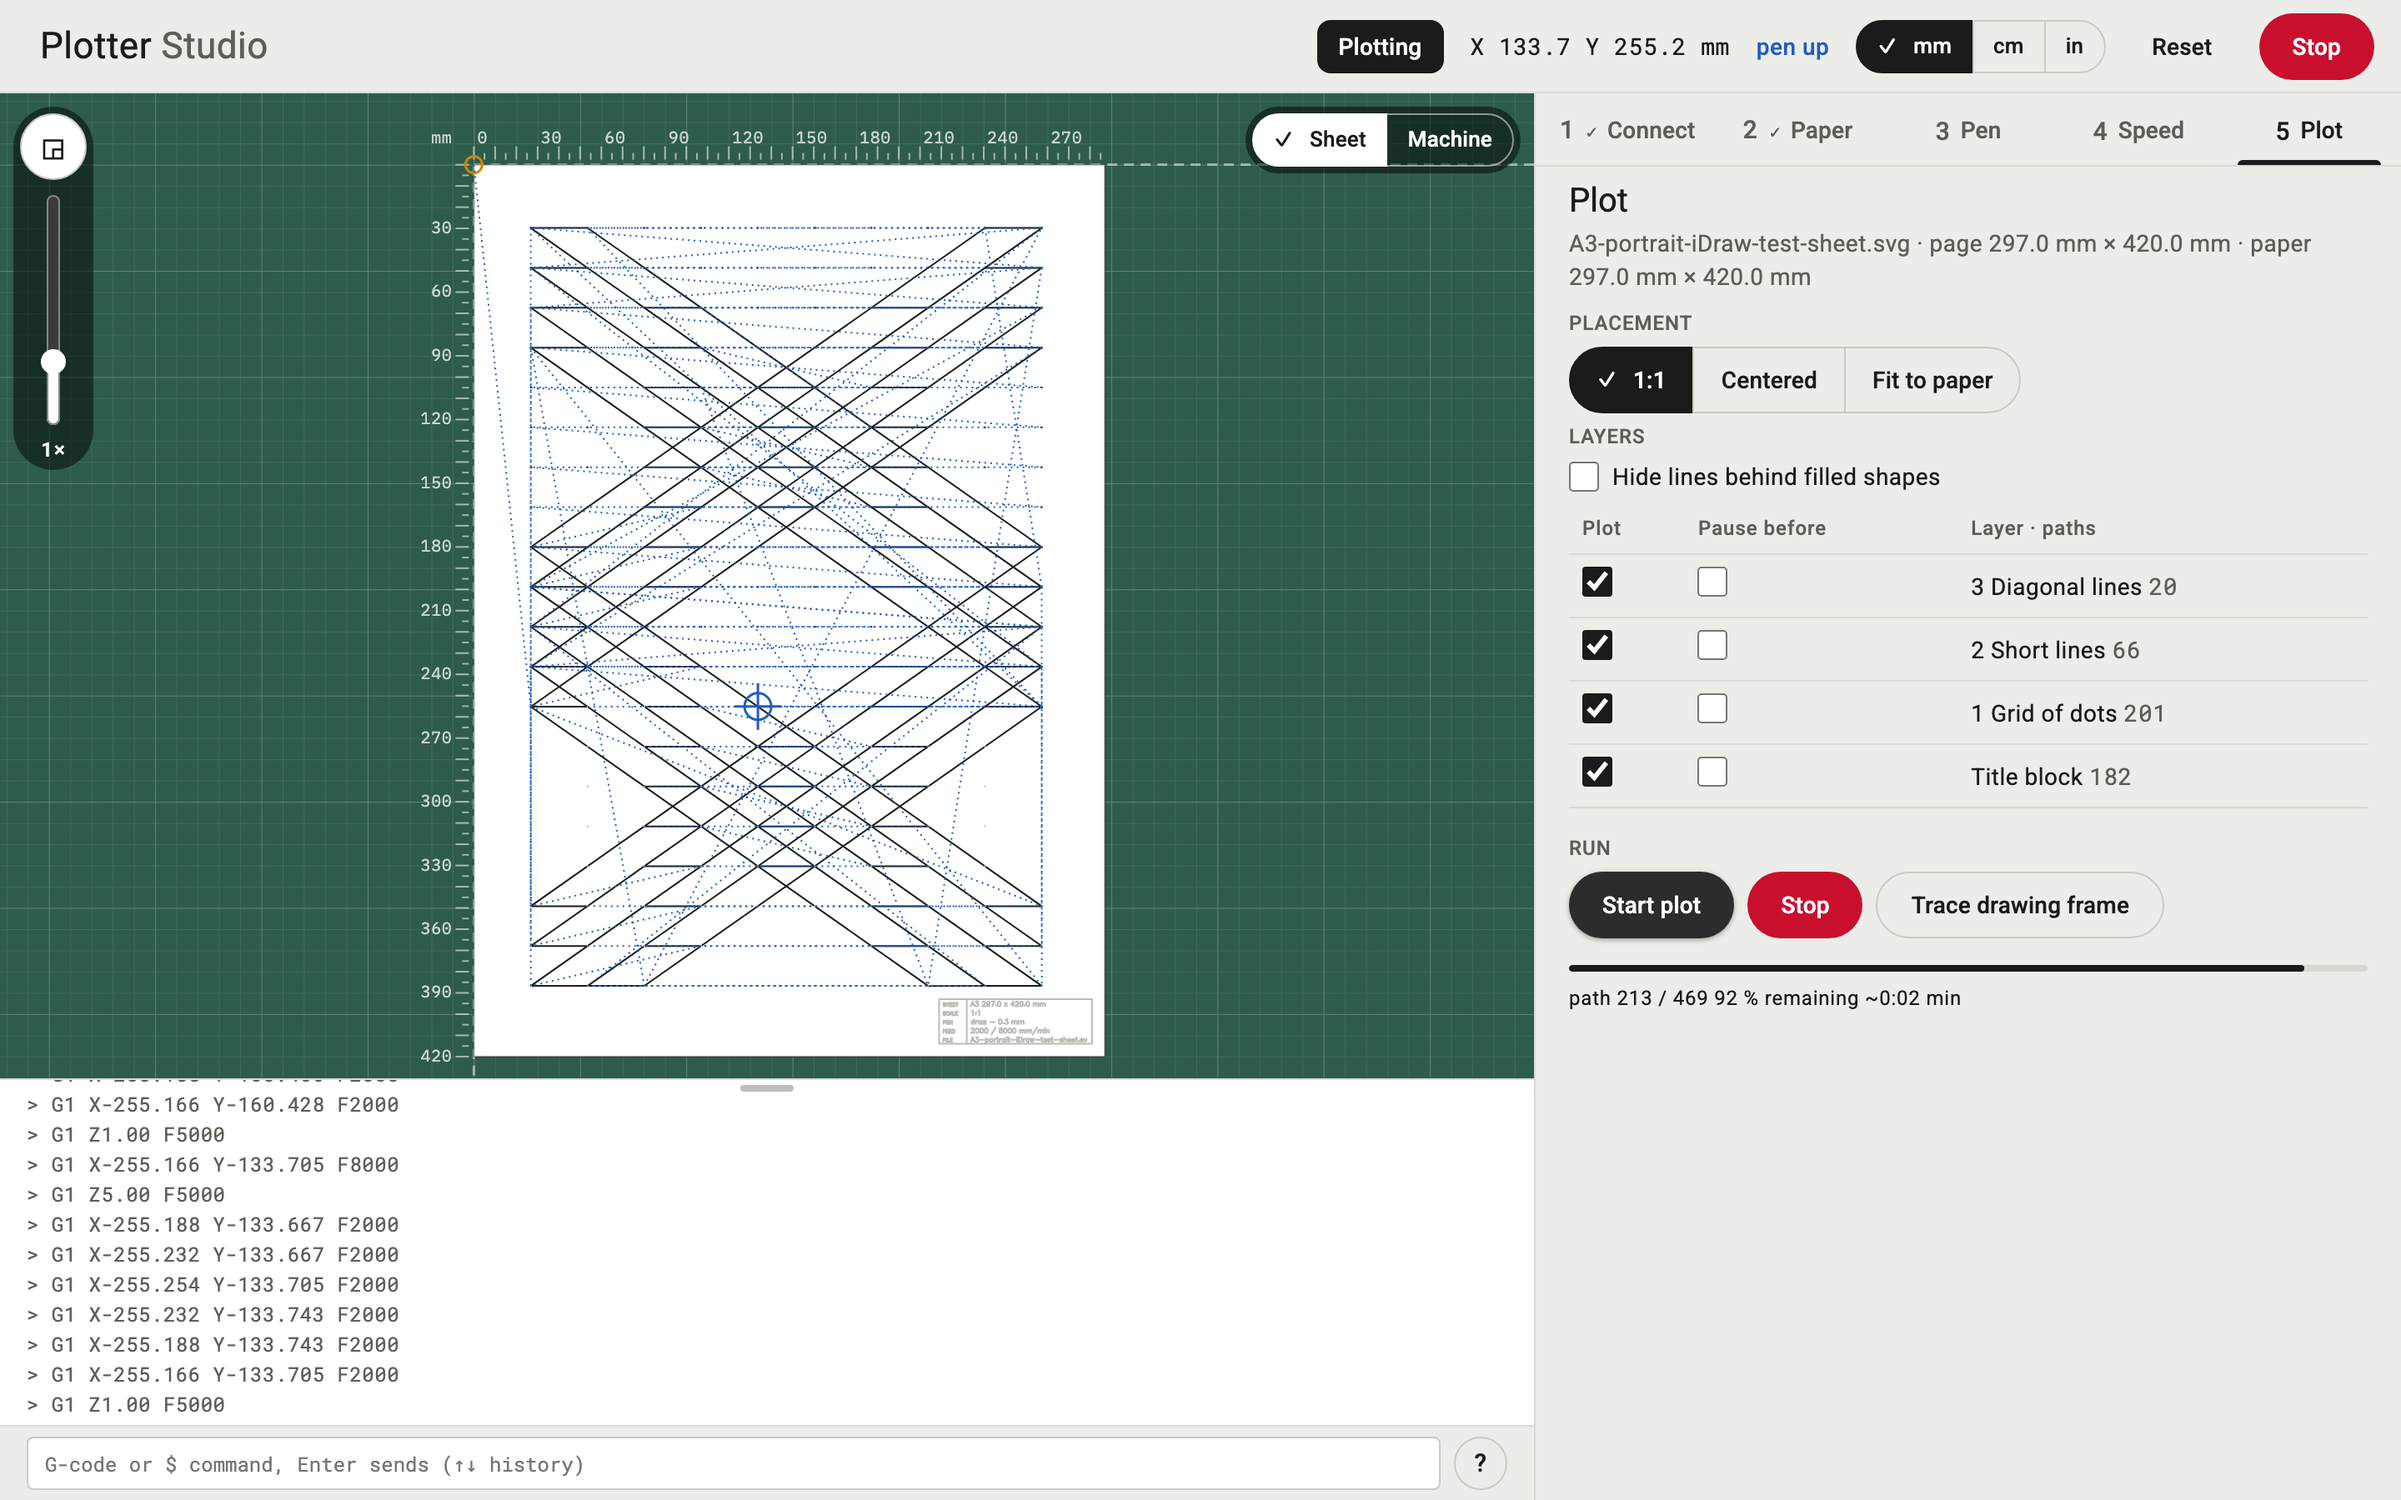
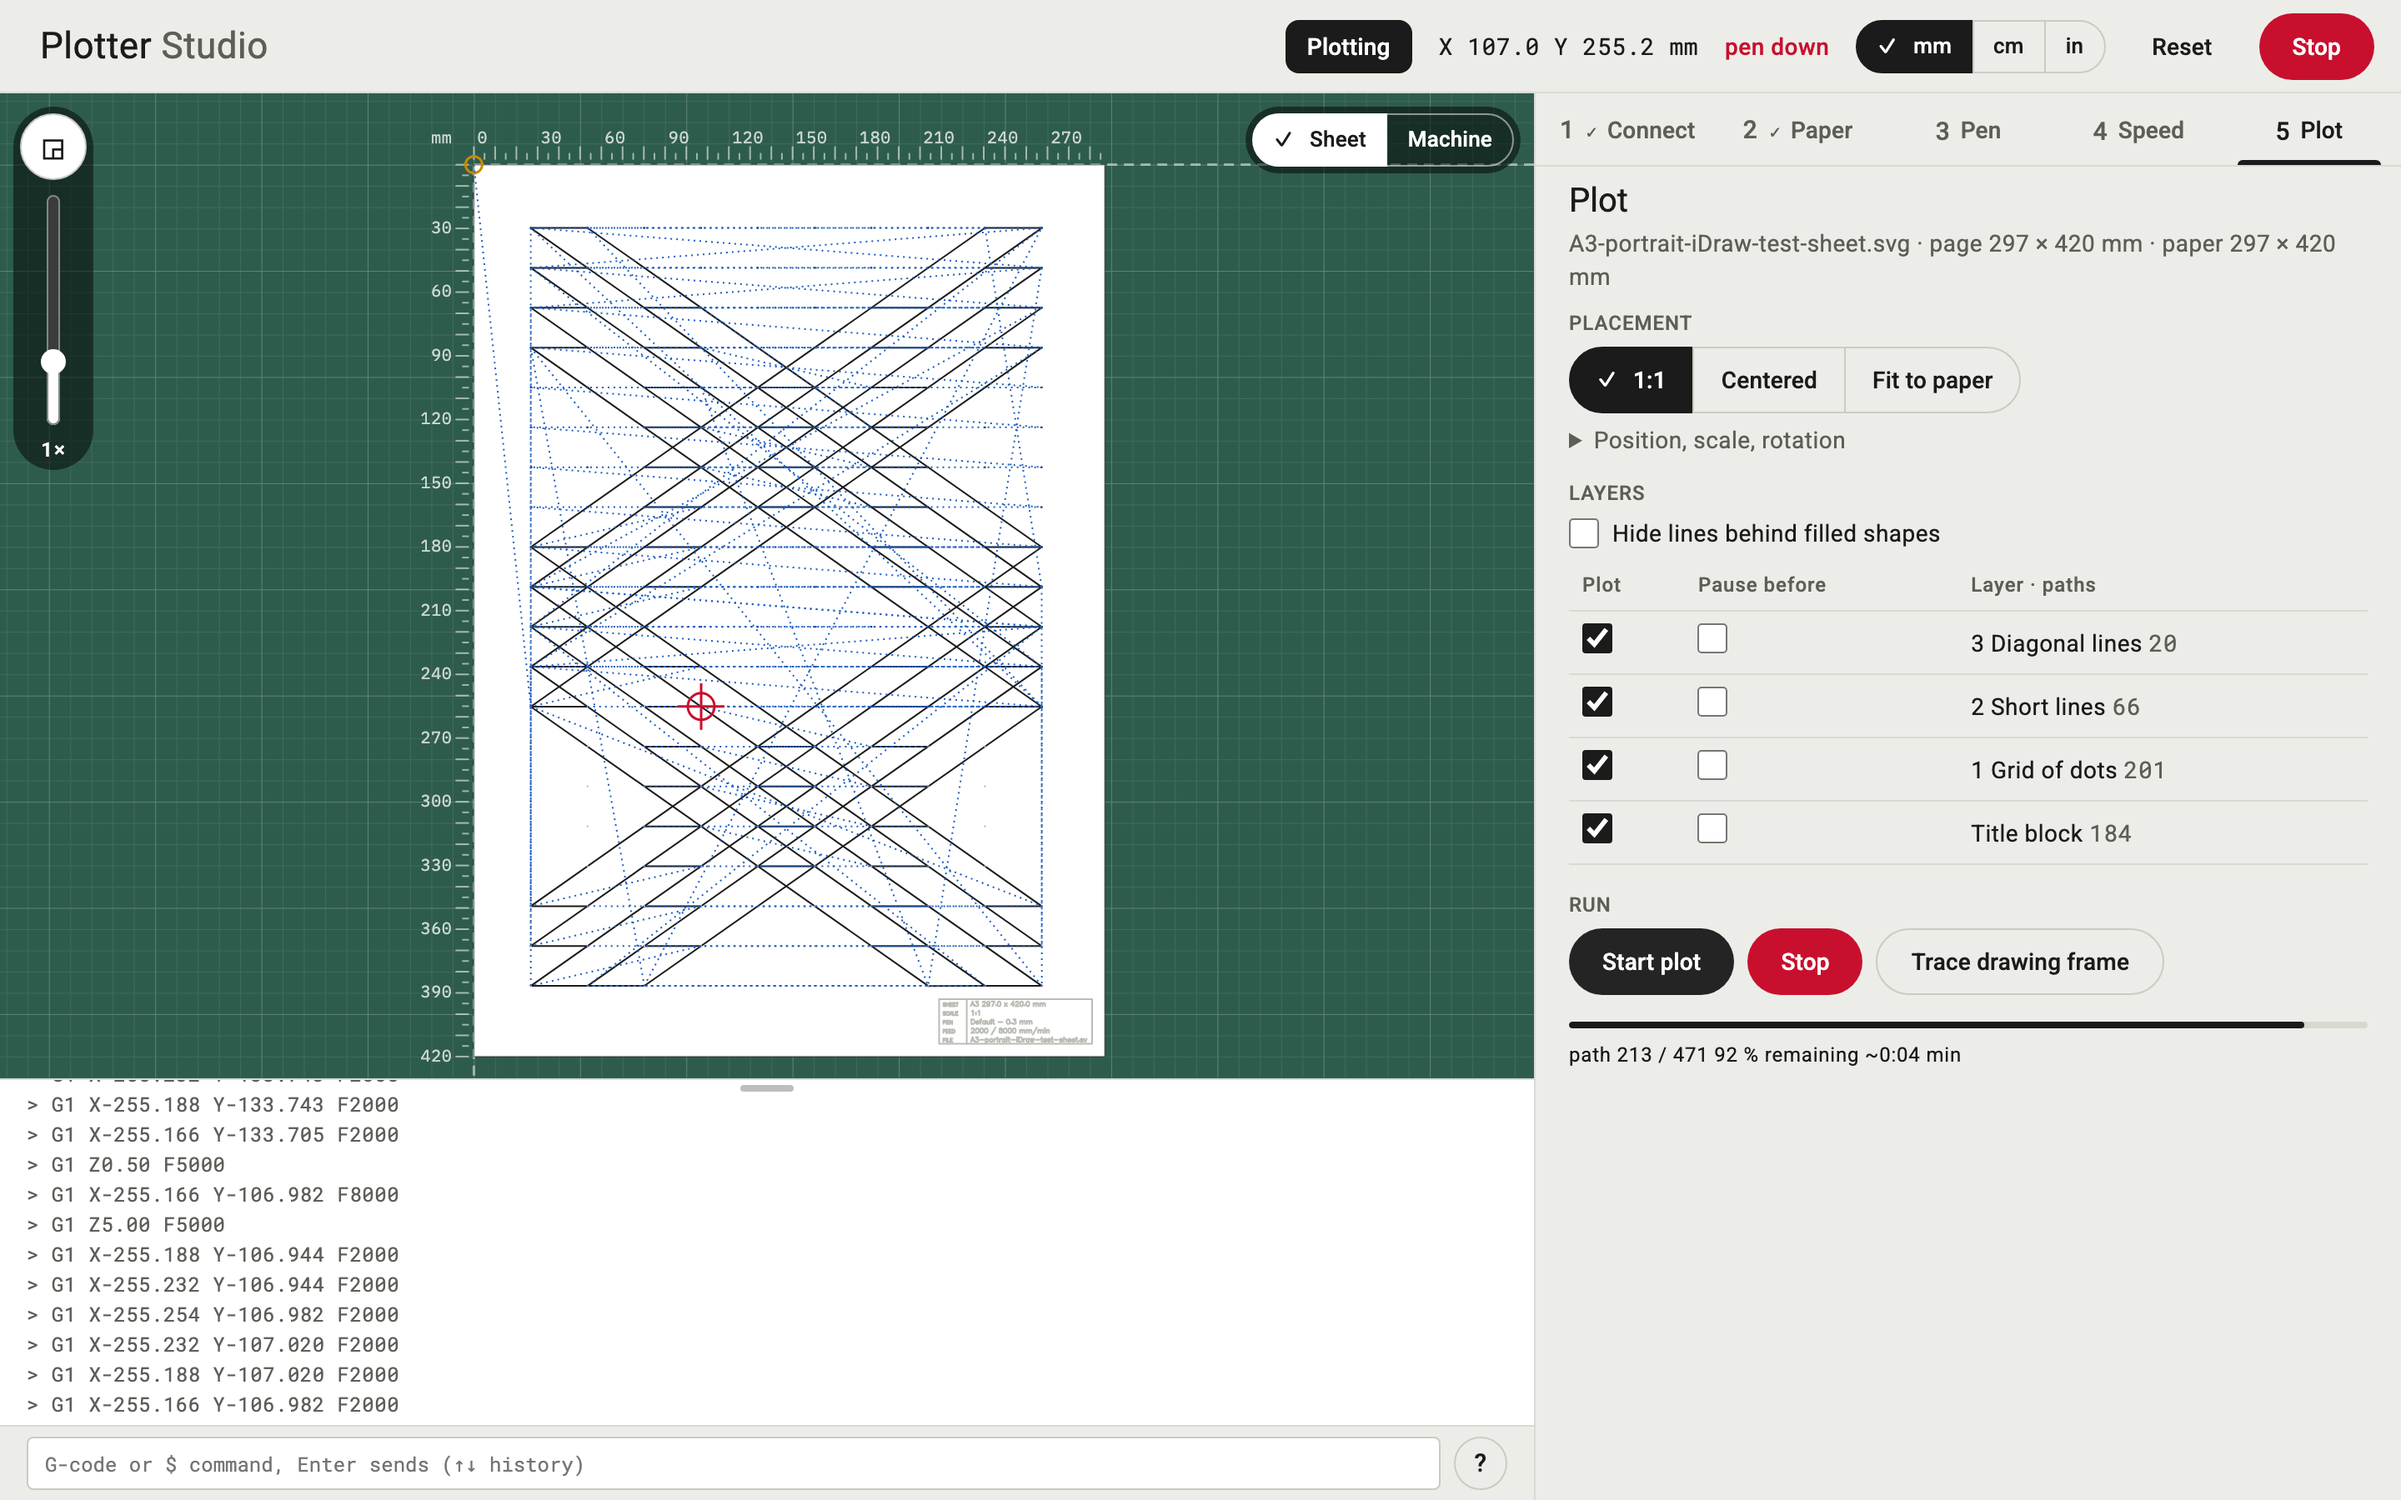
docs/make_screenshots.py: makes screenshot.png and manual-resume.png from the simulator and says what each shows; both pictures made again with the current UI

diff --git a/docs/make_screenshots.py b/docs/make_screenshots.py
@@ -1,0 +1,127 @@
+"""Make the screenshots in docs/ again after a change to the web UI: python3 docs/make_screenshots.py
+
+Needs Playwright (see TESTING.md). Runs the server with the simulator and an empty settings file,
+so the user's settings are not touched. Window 1440 x 900 at device scale 2, i.e. 2880 x 1800 px.
+
+docs/screenshot.png (README, picture above the folders):
+    The Plot step while a plot runs. Model iDraw A1 (its travel range fits an A3 sheet; with the
+    default iDraw A4 the sheet exceeds the travel and Start plot asks first), connected to the
+    simulator, homed, paper A3 portrait, test drawing A3-portrait-iDraw-test-sheet.svg from the
+    Speed step, placement 1:1. Taken at about path 213 of 471: plotted strokes black, the rest
+    grey, the dotted blue travel trace, the pen cross mid-sheet, the progress bar at about 90 %.
+
+docs/manual-resume.png (MANUAL.md, end of "Plot"):
+    The path picker after a stop. Demo drawing idraw_demo.svg, paper A4 landscape, placement 1:1,
+    pause before "!2 Detail red" switched off. The plot is stopped at about path 60, then the
+    curve (path 5) is clicked on the board: drawn thick, paths 1 to 4 done, the field shows 5,
+    the buttons read "Resume from path 5" and "Plot only".
+
+The other pictures (manual-connect, manual-paper, manual-pen, manual-steps) are cut from single
+steps of the panel and are not made by this script.
+"""
+import os
+import sys
+import tempfile
+import threading
+
+HERE = os.path.dirname(os.path.abspath(__file__))
+EXT = os.path.join(HERE, "..", "extensions")
+sys.path.insert(0, EXT)
+os.chdir(EXT)   # the server finds tests/ and the demo drawing next to itself
+
+import idraw_core
+import idraw_server
+from playwright.sync_api import expect, sync_playwright
+
+idraw_core.SimTransport.__init__.__defaults__ = (10.0,)   # fast, but slow enough to catch a running plot
+tmp = tempfile.TemporaryDirectory()
+idraw_core.SETTINGS_FILE = os.path.join(tmp.name, "settings.json")
+
+
+def select(page, selector, value):
+    """Select and wait for the server's reply, so two selects cannot finish in the wrong order."""
+    with page.expect_response(lambda r: "/api/cmd" in r.url):
+        page.select_option(selector, value)
+
+
+def start(page, model):
+    page.wait_for_selector("#steps li")
+    if page.locator("#connBtn").text_content() == "Disconnect":   # the model is locked while connected
+        page.click("#connBtn")
+        expect(page.locator("#connBtn")).to_have_text("Connect")
+    select(page, "#model", model)
+    page.select_option("#port", "Simulation")
+    page.click("#connBtn")
+    expect(page.locator("#status")).to_have_text("ready")
+    page.click("button[data-cmd=home]")
+    page.wait_for_function("() => S.state.homed && !S.state.busy")
+
+
+def tab(page, i):
+    page.locator("#steps li").nth(i).click()
+
+
+def readme(page):
+    start(page, "iDraw A1")
+    tab(page, 1)
+    select(page, "#fmt", "A3")
+    select(page, "#orient", "portrait")
+    page.wait_for_function("() => S.paper_name === 'A3' && S.paper[0] === 297 && S.paper[1] === 420")
+    tab(page, 3)
+    select(page, "#testFile", "A3-portrait-iDraw-test-sheet.svg")
+    page.wait_for_function("() => S.svg_name === 'A3-portrait-iDraw-test-sheet.svg'")
+    tab(page, 4)
+    page.click("button[data-cmd=plot]")
+    page.wait_for_function("() => S.progress && S.progress.i >= 213", timeout=120000)
+    page.mouse.move(1000, 880)
+    page.screenshot(path=os.path.join(HERE, "screenshot.png"))
+    page.click("#stop")
+    page.wait_for_function("() => S.state.status === 'ready' && !S.state.busy", timeout=30000)
+
+
+def manual_resume(page):
+    start(page, "iDraw A4")
+    tab(page, 1)
+    select(page, "#fmt", "A4")
+    select(page, "#orient", "landscape")
+    tab(page, 3)
+    select(page, "#testFile", "")
+    page.wait_for_function("() => S.svg_name === 'idraw_demo.svg'")
+    tab(page, 4)
+    page.click("button[data-pl='1:1']")
+    page.locator("#panel tr", has_text="!2 Detail red").locator("input[data-k=pause]").uncheck()
+    page.wait_for_function("() => !S.layers[1].pause")
+    page.click("button[data-cmd=plot]")
+    page.wait_for_function("() => S.progress && S.progress.i >= 60", timeout=60000)
+    page.click("#stop")
+    expect(page.locator("#log")).to_contain_text("Plot stopped.", timeout=30000)
+    page.wait_for_function("() => S.state.status === 'ready' && !S.state.busy")
+    x, y = page.evaluate("""() => { const el = document.querySelectorAll('#strokes path')[4];
+        const p = el.getPointAtLength(el.getTotalLength() * 0.3).matrixTransform(el.getScreenCTM()); return [p.x, p.y]; }""")
+    page.mouse.click(x, y)
+    expect(page.locator("#pickN")).to_have_value("5")
+    page.mouse.move(1000, 880)
+    page.wait_for_timeout(300)
+    page.screenshot(path=os.path.join(HERE, "manual-resume.png"))
+
+
+def main():
+    httpd = idraw_server.serve(os.path.join(EXT, "idraw_demo.svg"), sim=True, port=0, open_browser=False)
+    threading.Thread(target=httpd.serve_forever, daemon=True).start()
+    try:
+        with sync_playwright() as pw:
+            browser = pw.chromium.launch()
+            for shot in (readme, manual_resume):
+                page = browser.new_page(viewport={"width": 1440, "height": 900}, device_scale_factor=2)
+                page.goto("http://127.0.0.1:%d/" % httpd.server_address[1])
+                shot(page)
+                page.close()
+                print("  " + shot.__name__)
+            browser.close()
+    finally:
+        httpd.shutdown()
+    print("ok")
+
+
+if __name__ == "__main__":
+    main()

diff --git a/README.md b/README.md
@@ -24,6 +24,7 @@ plotter-studio/
   iDraw Extension Analysis 2026-09-02.md   how the original plugin works, firmware commands, axis mapping
   docs/screenshot.png                web UI in the simulator, plotting the A3 test sheet (picture above)
   docs/manual-*.png                  pictures for MANUAL.md
+  docs/make_screenshots.py           makes screenshot.png and manual-resume.png again; says what each shows
   extensions/                        working copy; Inkscape reads ~/Library/Application Support/org.inkscape.Inkscape/config/inkscape/extensions
     idraw_core.py                    plotter logic without UI (transport, state, plot run, tests, SVG loading)
     idraw_server.py                  local HTTP server: one Session around a Plotter, JSON commands, server-sent events
